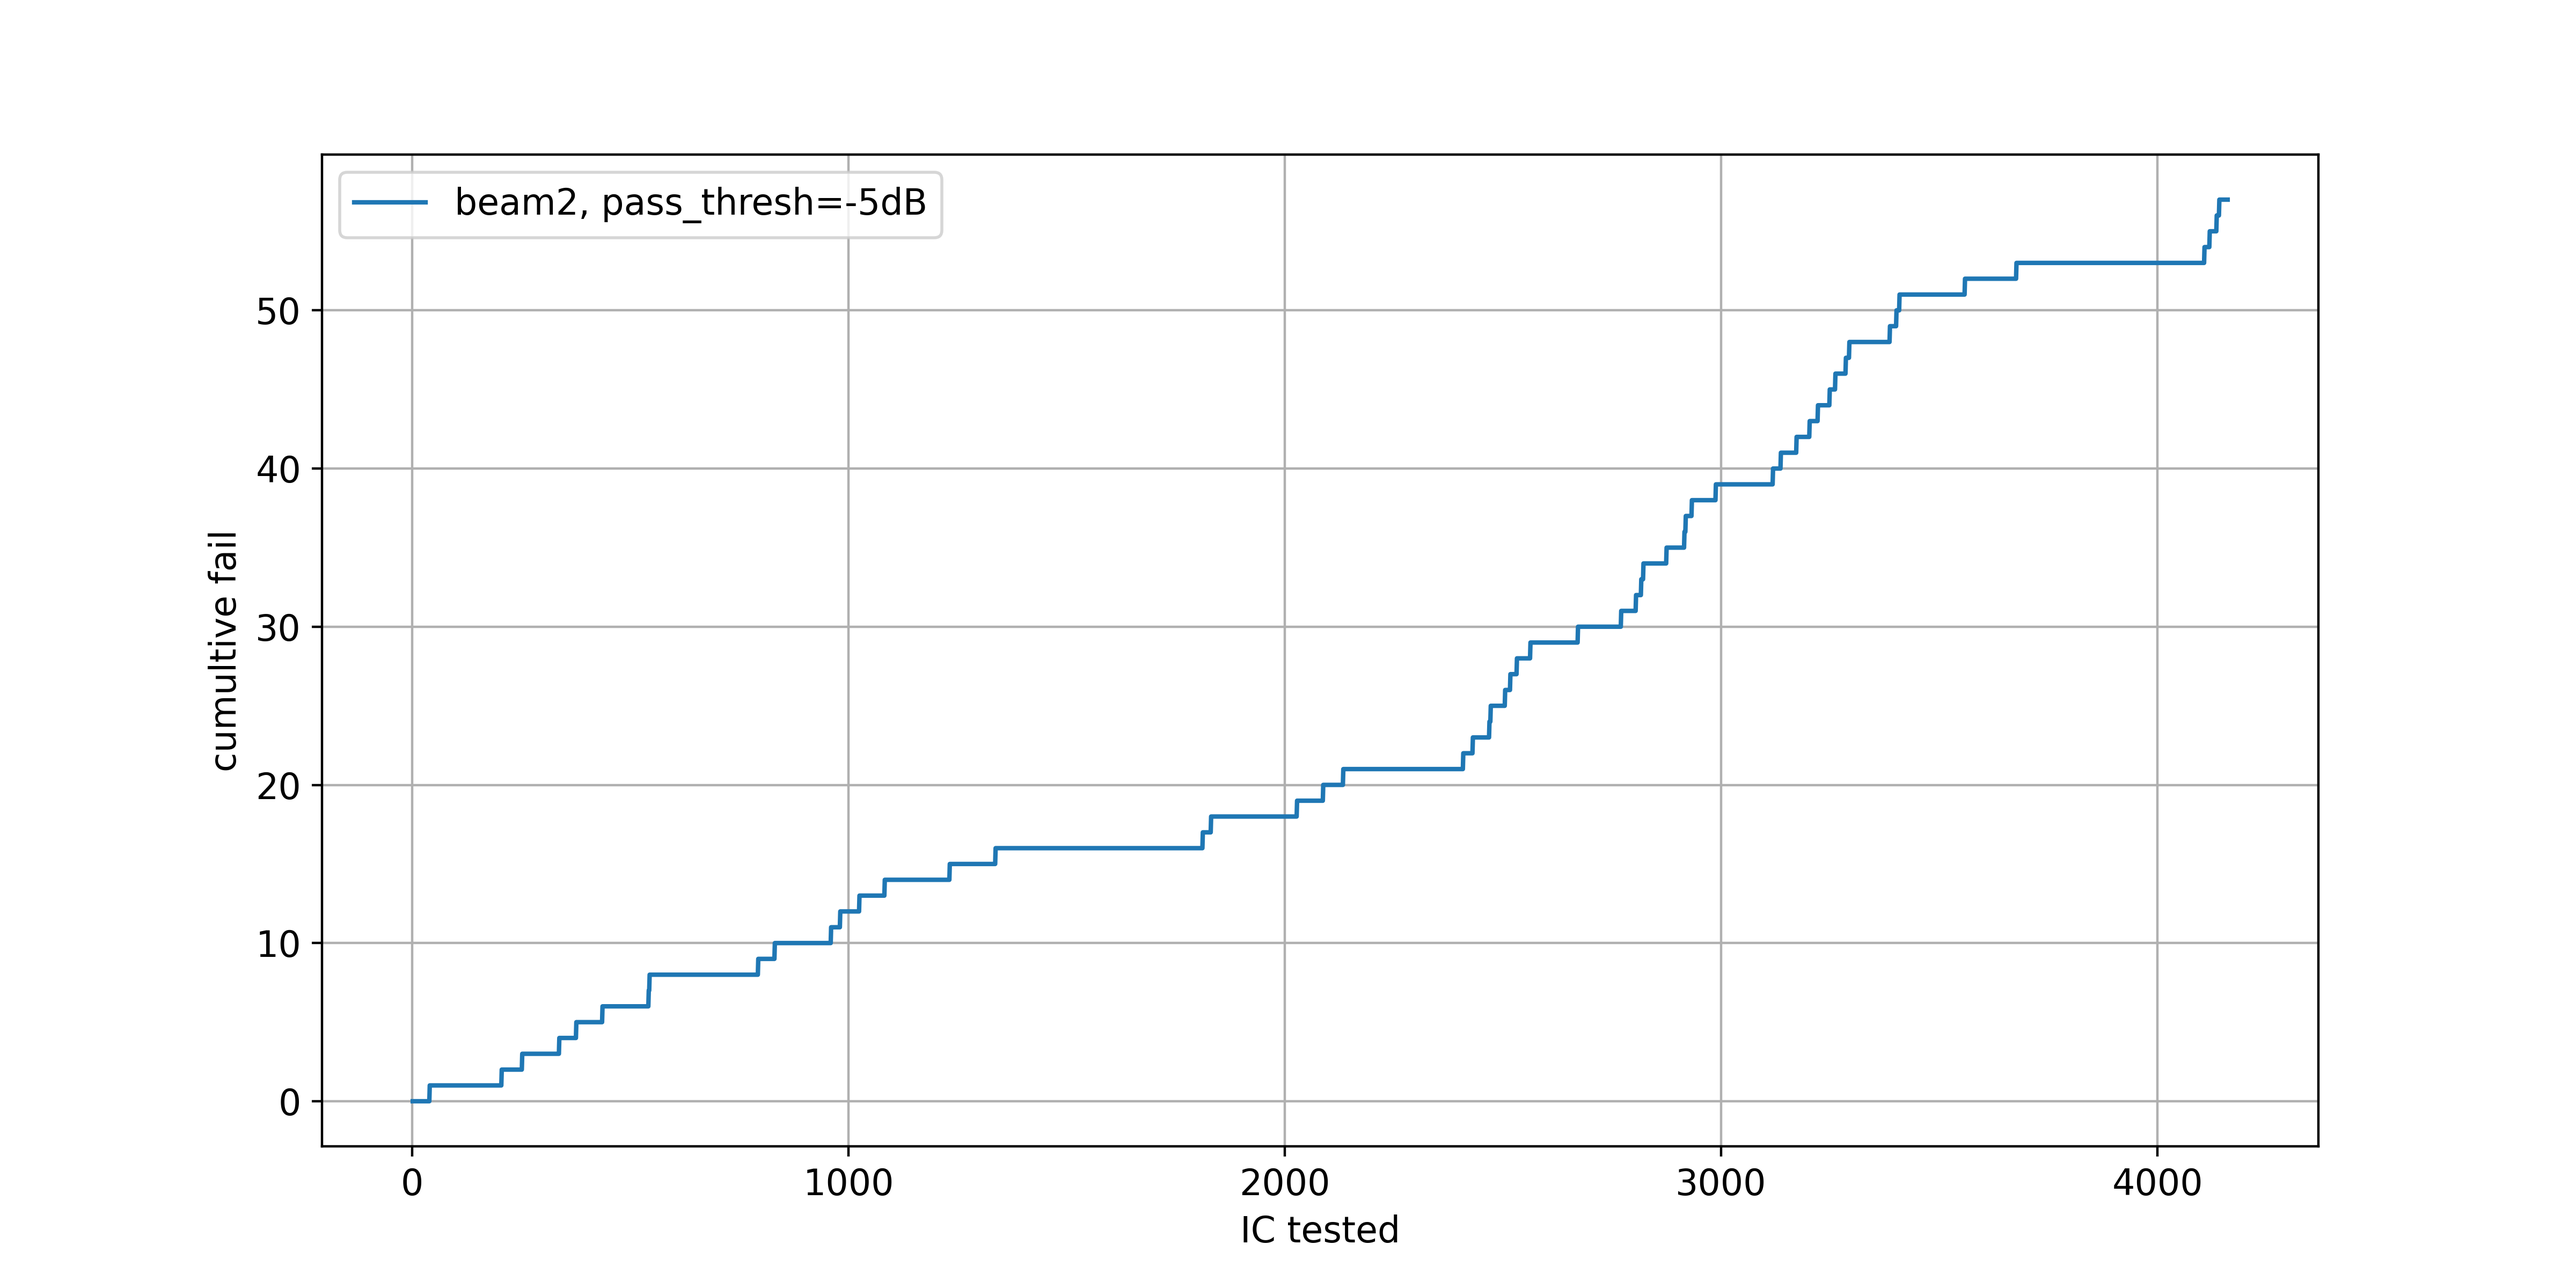
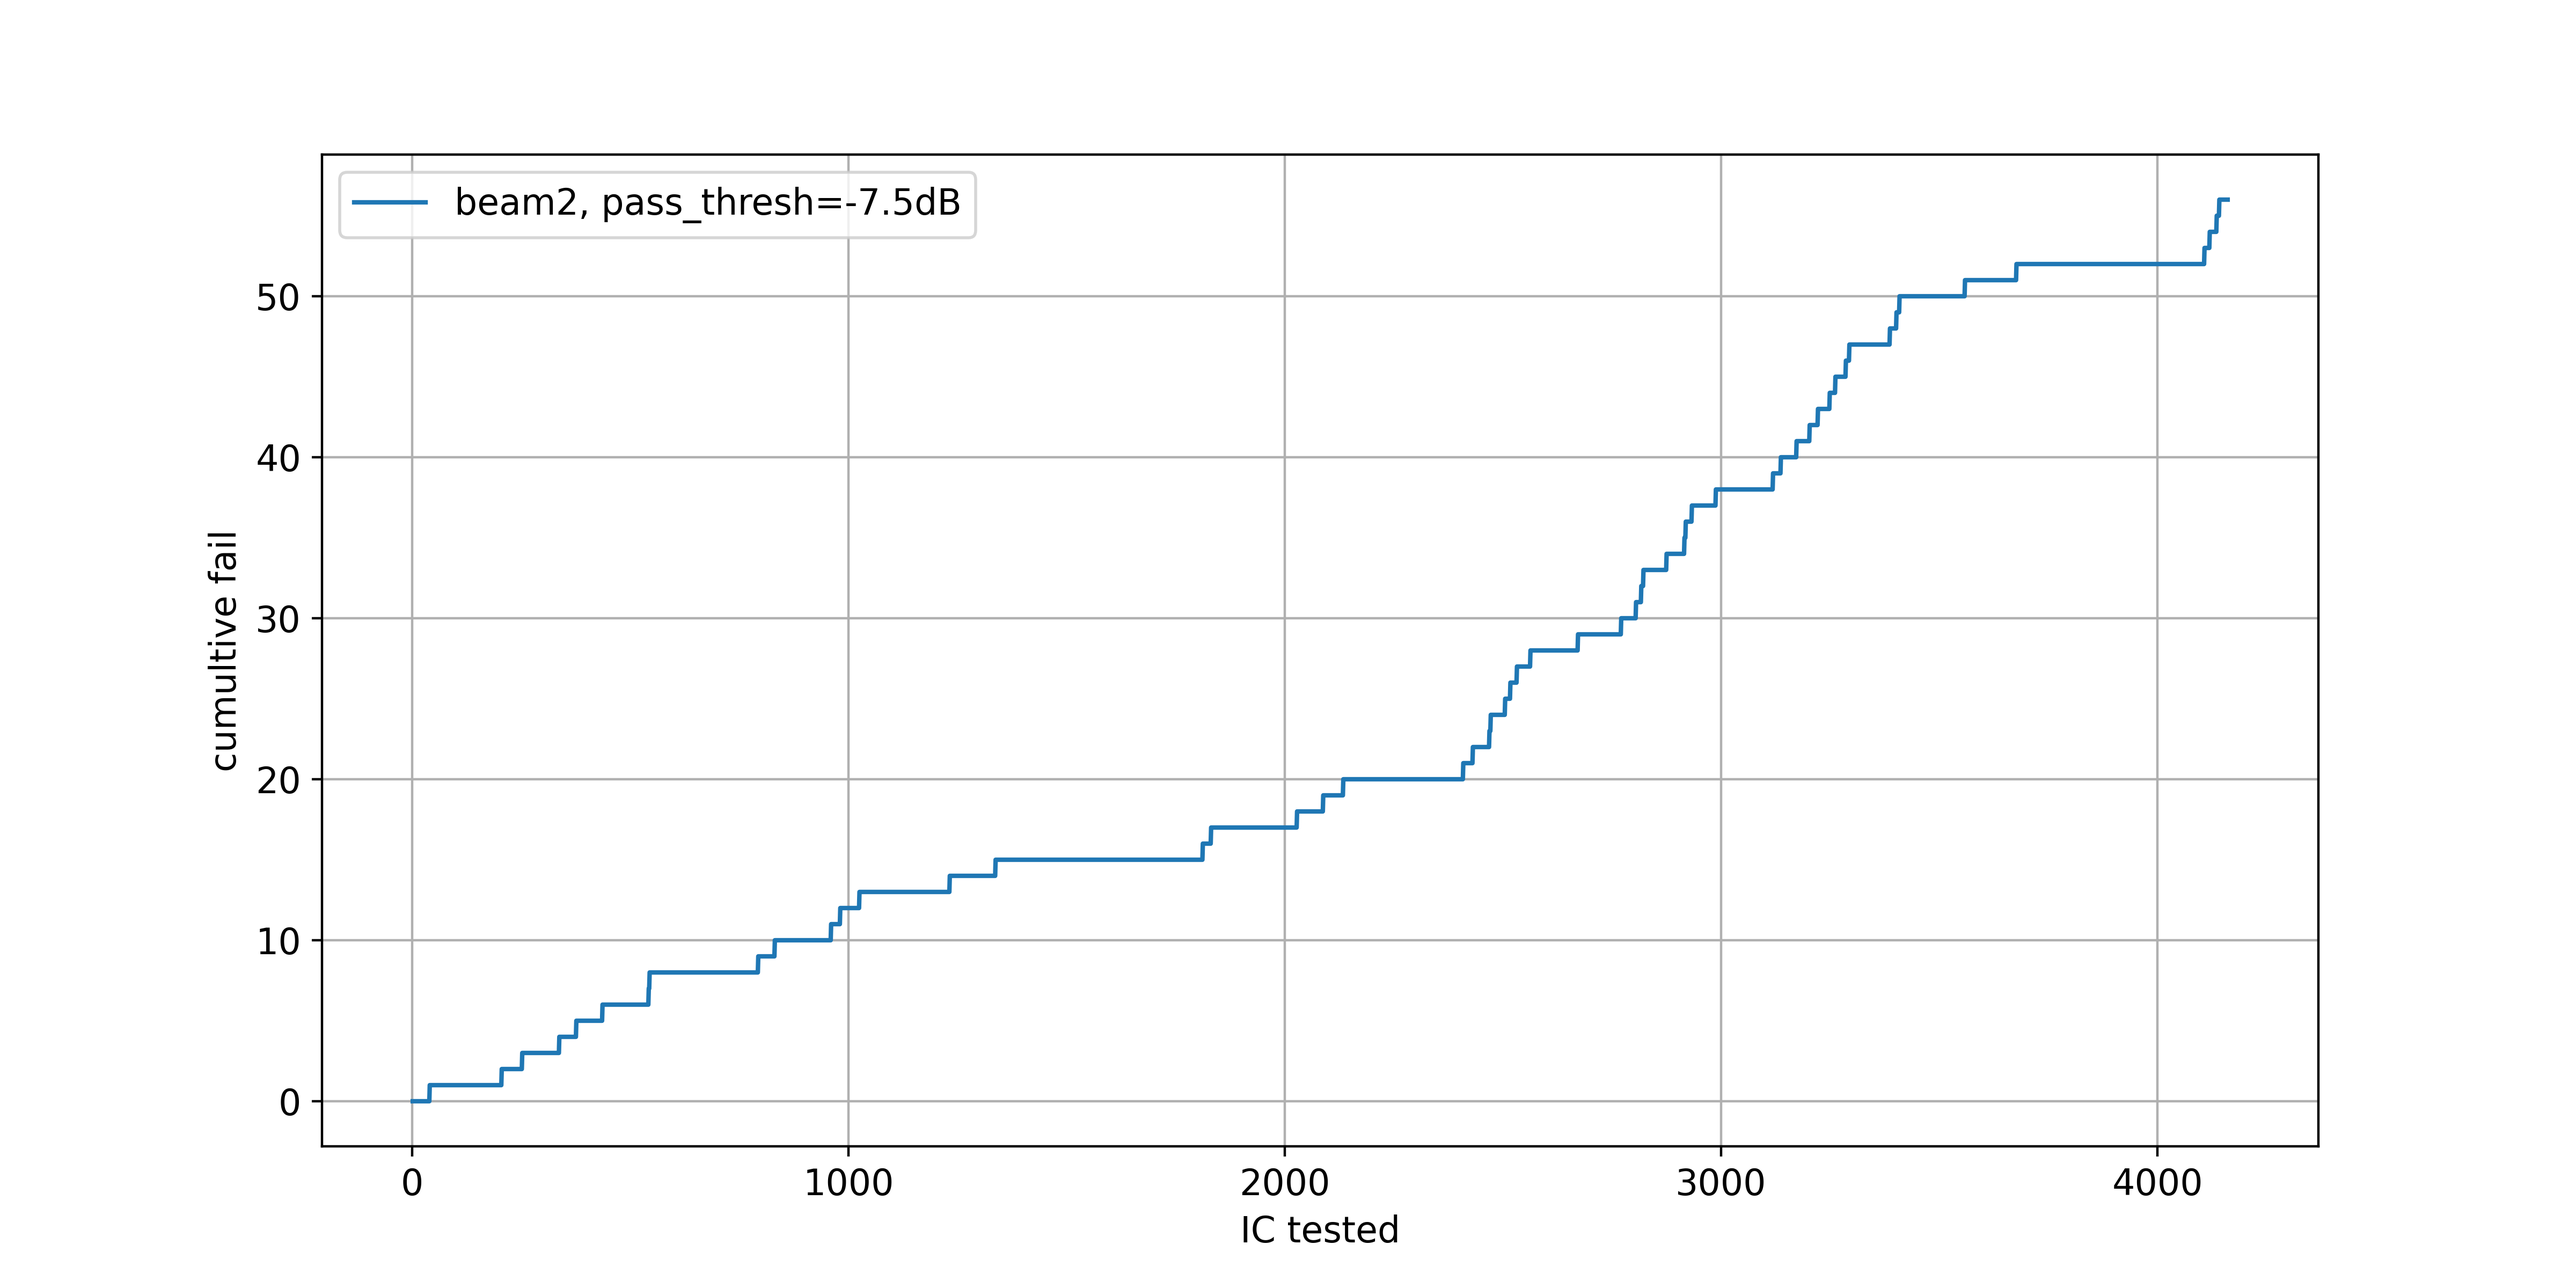
Running and developing good/bad RFIC checker

diff --git a/20240530_RFIC_good_bad/20240530_RFIC_good_bad.py b/20240530_RFIC_good_bad/20240530_RFIC_good_bad.py
@@ -216,7 +216,7 @@ map_rfic = pd.read_csv(r'C:\GitHub\jm_post_processing\20240227_tlm_map_plotter\2
 
 # params
 freq_set = '29.50'
-pass_thresh = -5
+pass_thresh = -7.5
 
 # run
 beam_log = {}
@@ -244,7 +244,7 @@ for beam in [1,2]:
     x_co_log = []
     y_co_log = []
     wafer_log = []
-    for hex_num in df_flagged['uid']:
+    for hex_num in beam_log[f'df_flagged (beam{beam})']['uid']:
     # hex_num = 'c0063c5a'
         if hex_num == 'not found':
             x_co_log.append(1e9)
@@ -279,10 +279,23 @@ for beam in [1,2]:
     plt.ylim([-10,60])
     plt.xlabel('x'); plt.ylabel('y')
     plt.grid()
-    
-    # plt.figure()
-    # plt.hist(df_flagged_fail['wafer'], bins=range(min(df_flagged_fail['wafer']), max(df_flagged_fail['wafer']) + 1, 1), edgecolor='white', linewidth=2)
-            
+
+plt.close('all')
+for beam in [1,2]:
+    plt.figure()
+    wafers = list(set(beam_log[f'df_flagged (beam{beam})']['wafer']))
+    dead_log = []
+    count_log= []
+    for wafer in wafers:
+        df_wafer = beam_log[f'df_flagged (beam{beam})'][beam_log[f'df_flagged (beam{beam})']['wafer']==wafer]
+        dead_log.append(100.0*np.sum(df_wafer[f'fail flag (beam{beam}, pass_thresh={pass_thresh}dB)'])/len(df_wafer))
+        # dead_log.append(np.sum(df_wafer[f'fail flag (beam{beam}, pass_thresh={pass_thresh}dB)']))
+        count_log.append(len(df_wafer))
+        plt.plot(df_wafer['x_co'], df_wafer['y_co'], 'o', markersize=10, label=wafer)
+        plt.xlim([20,80])
+        plt.ylim([-10,60])
+    plt.legend()
+                
             
             
             
